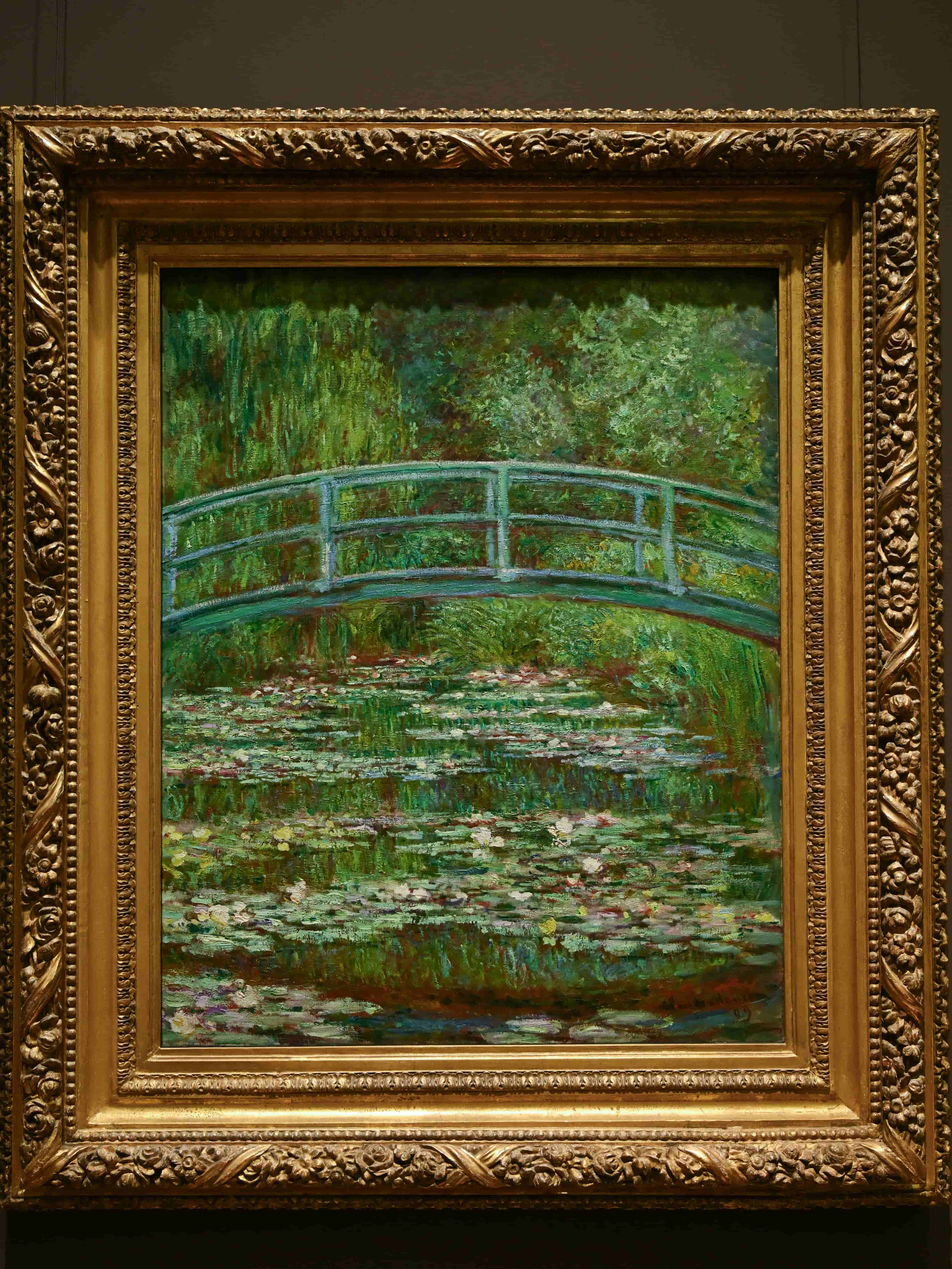
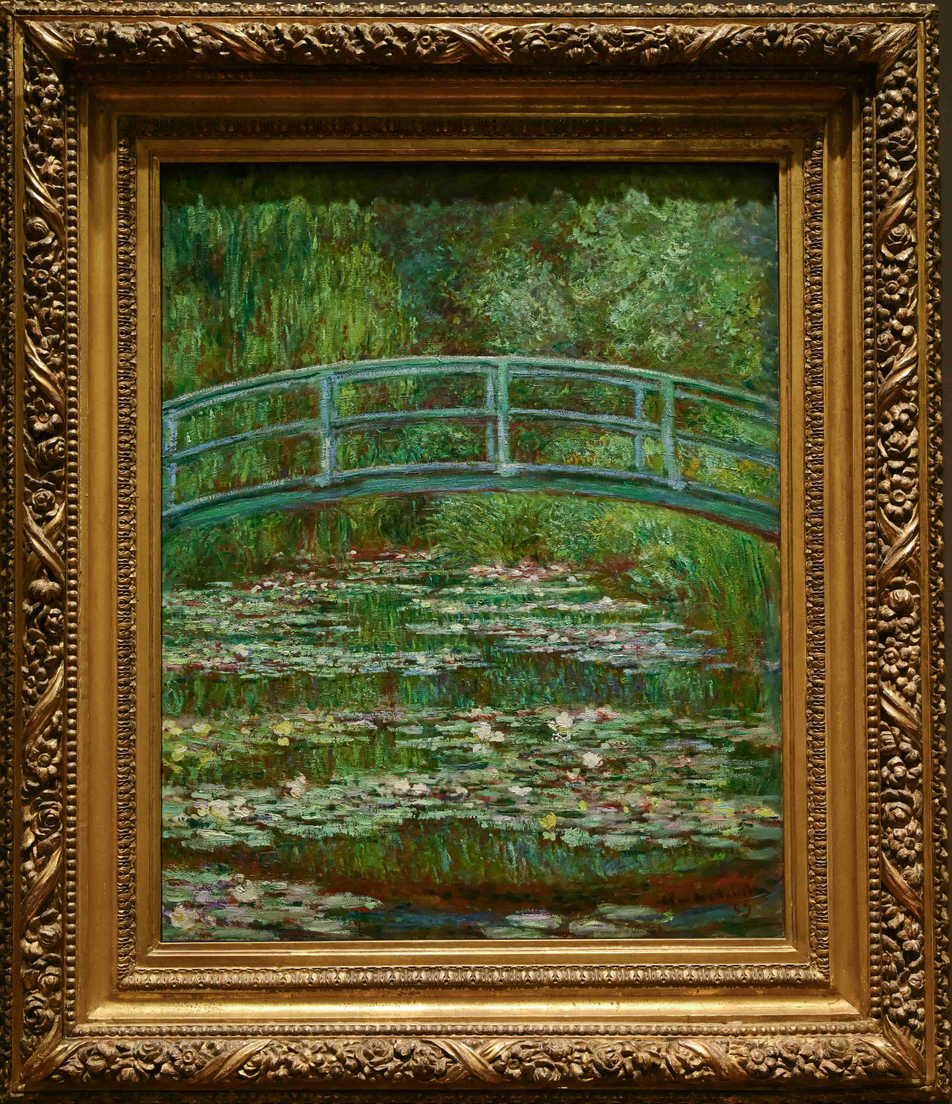
updating site on Sun Jan  4 23:32:49 EST 2026

diff --git a/content/cn/blog/2024-09-09-sharedProse1.md b/content/cn/blog/2024-09-09-sharedProse1.md
@@ -50,6 +50,6 @@ tags:
 
 {{<figure src="/figures/blogFigs/chinese_blog/2025-12-26-water-lily2.jpg" width="500">}}
 
-{{<figure src="/figures/blogFigs/chinese_blog/2025-12-26-water-lily3.jpg" title="大都会博物馆中莫奈的《睡莲》，2025年12月26日" caption="看到这篇文章的四年后我来到了大都会博物馆，忽然间意识到，人生的路径，远比当初想象的更为辽阔。" width="600">}}
+{{<figure src="/figures/blogFigs/chinese_blog/2025-12-26-water-lily3.jpg" title="大都会博物馆中莫奈的《睡莲》，2025年12月26日" caption="看到这篇文章的四年后我来到了大都会博物馆，忽然间意识到，人生的路径，远比当初想象的更为辽阔。" width="500">}}
 
 [^1]: 作者：席慕容，全名穆伦·席连勃，当代画家、诗人、散文家。她于1963年毕业于台湾师范大学美术系，于1966年在比利时布鲁塞尔皇家艺术学院完成进修。
